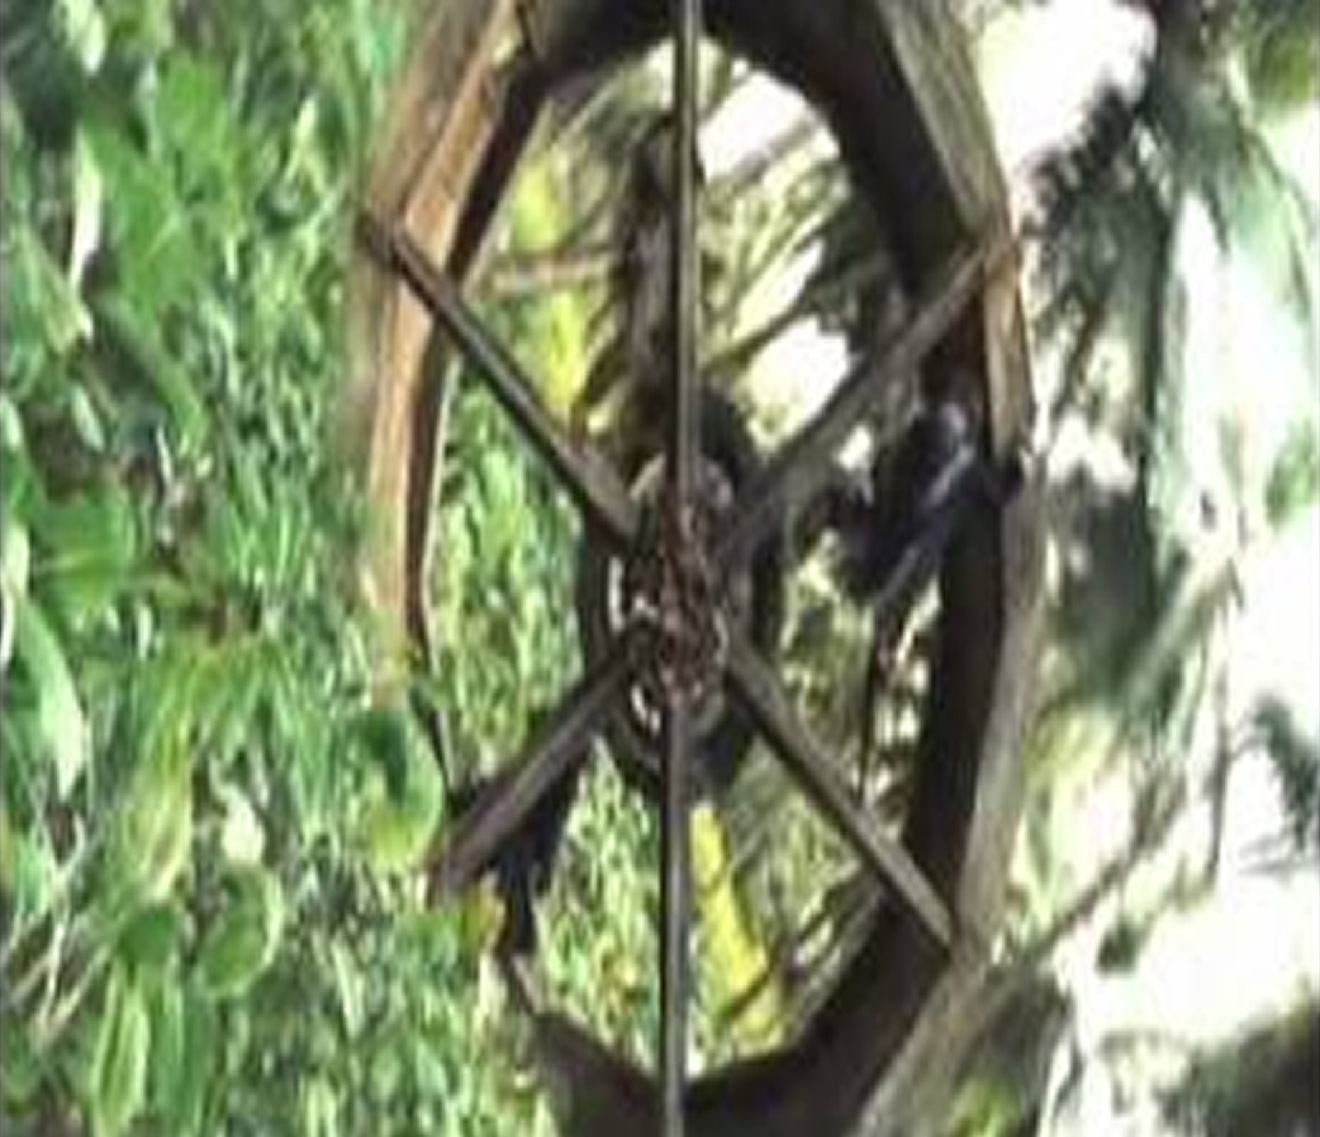
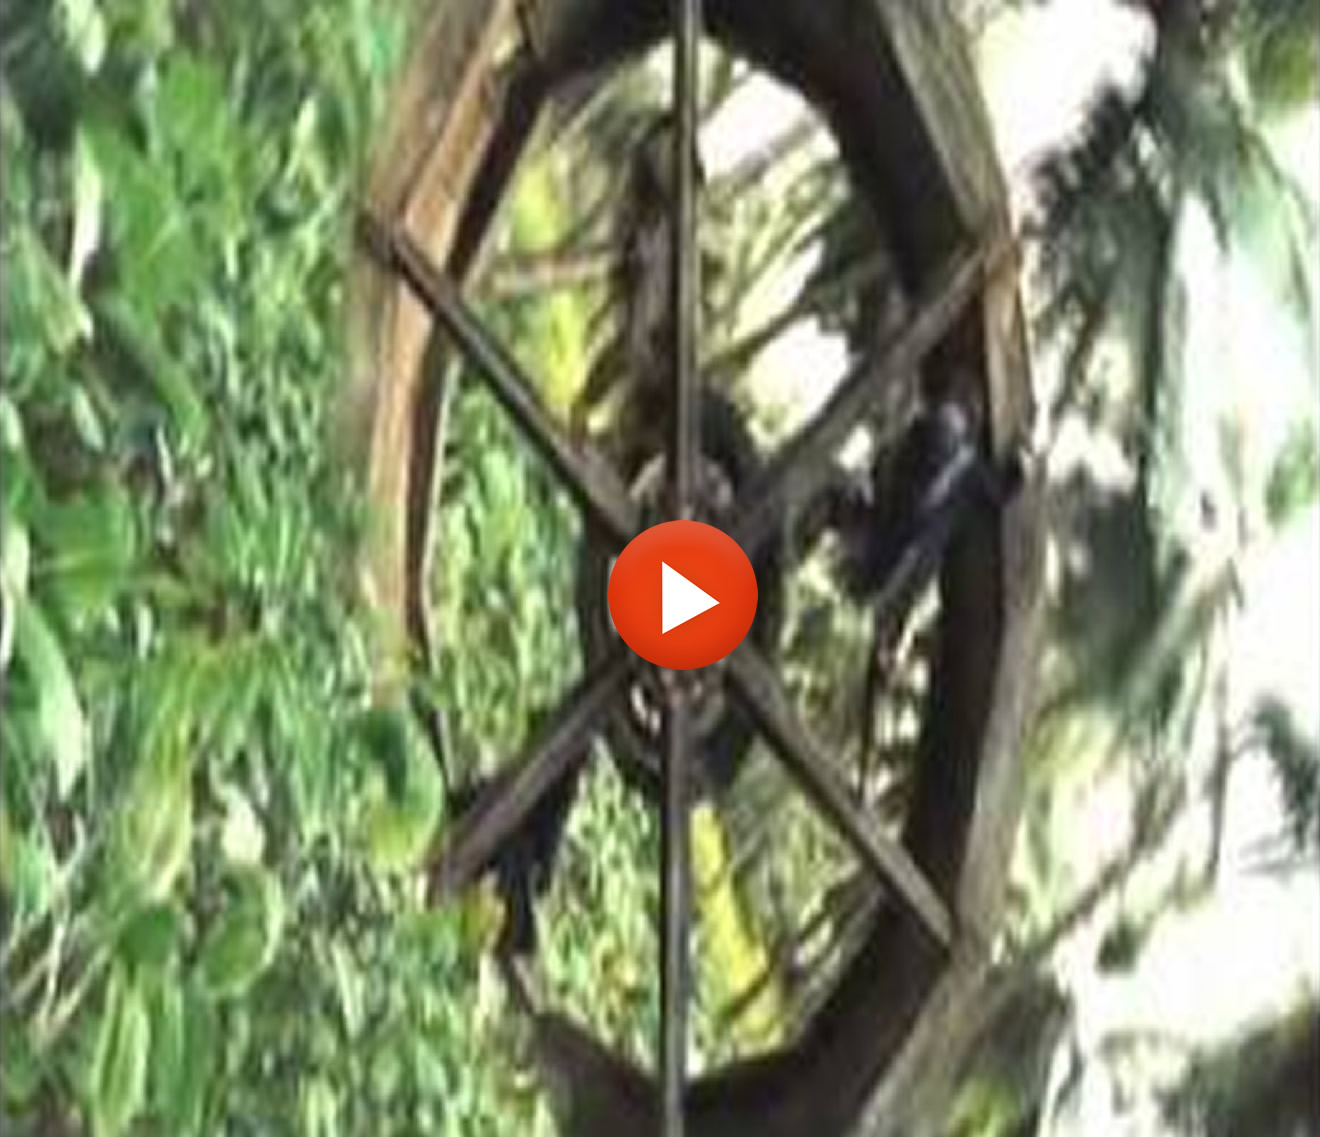
when picture on top section pops video
when picture on top section pops video, still working on carousel

Changed region(s): [[0.4348, 0.431, 0.5902, 0.6157]]

diff --git a/assets/styles/prestige/colorbox.css b/assets/styles/prestige/colorbox.css
@@ -15,7 +15,7 @@
 .cboxIframe{width:100%; height:100%; display:block; border:0; padding:0; margin:0;}
 #colorbox, #cboxContent, #cboxLoadedContent{box-sizing:content-box; -moz-box-sizing:content-box; -webkit-box-sizing:content-box;}
 
-/* 
+/*
     User Style:
     Change the following styles to modify the appearance of Colorbox.  They are
     ordered & tabbed in a way that represents the nesting of the generated HTML.
@@ -30,7 +30,7 @@
     #cboxBottomRight{width:14px; height:43px; background:url(images/controls.png) no-repeat -36px -32px;}
     #cboxMiddleLeft{width:14px; background:url(images/controls.png) repeat-y -175px 0;}
     #cboxMiddleRight{width:14px; background:url(images/controls.png) repeat-y -211px 0;}
-    #cboxContent{background:#fff; overflow:visible;}
+    #cboxContent{background:none; overflow:visible;}
         .cboxIframe{background:#fff;}
         #cboxError{padding:50px; border:1px solid #ccc;}
         #cboxLoadedContent{margin-bottom:5px;}
@@ -41,7 +41,7 @@
 
         /* these elements are buttons, and may need to have additional styles reset to avoid unwanted base styles */
         #cboxPrevious, #cboxNext, #cboxSlideshow, #cboxClose {border:0; padding:0; margin:0; overflow:visible;  position:absolute; bottom:-29px; background:url(images/controls.png) no-repeat 0px 0px; width:23px; height:23px; text-indent:-9999px;}
-        
+
         /* avoid outlines on :active (mouseclick), but preserve outlines on :focus (tabbed navigating) */
         #cboxPrevious:active, #cboxNext:active, #cboxSlideshow:active, #cboxClose:active {outline:0;}
 
